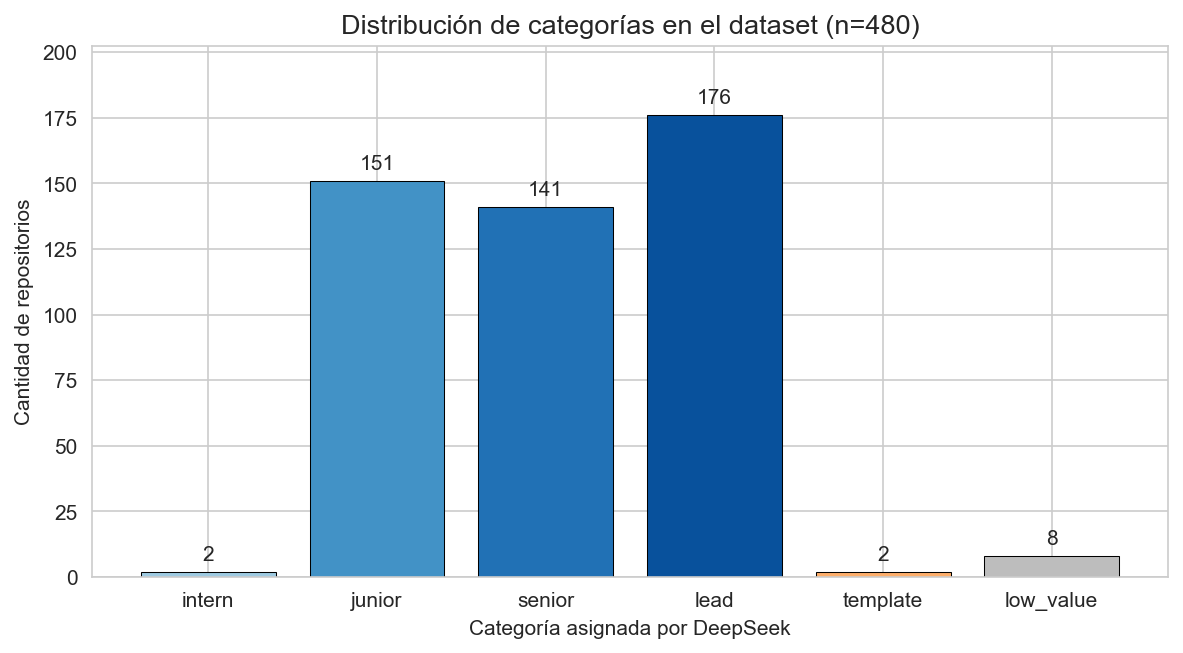
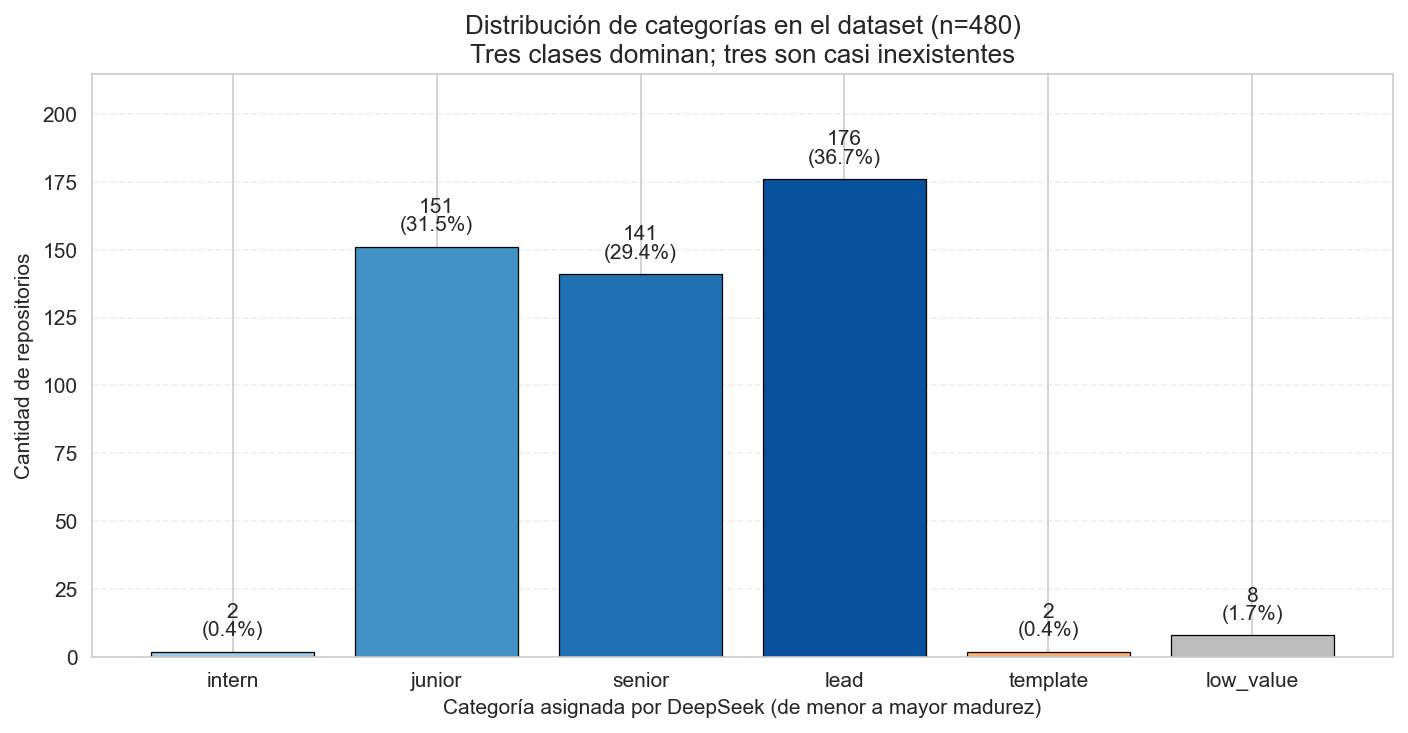
Rediseno los graficos de analisis exploratorio para que se entiendan mejor
- Distribucion de categorias: figura mas grande, anota n y porcentaje sobre cada barra, grilla horizontal y subtitulo que resume el hallazgo (3 clases dominan, 3 son inexistentes).
- Q1 (heatmap de senales por categoria): figura mas alta (13x6.2) para que las filas template y low_value dejen de superponerse con las anteriores; anotacion con formato compacto (1k separa miles, decimales adaptativos), yticks horizontales con fuente mas grande, margenes explicitos y titulo que explica que el color es z-score por columna y el numero es el valor real.
- Q2 (template/low_value vs real): cambio el viejo grid de boxplots por un bar chart horizontal agrupado que muestra el % de repos en cada cubeta que cumple con cada practica de ingenieria (multi-contribuidor, PRs merged, CI/CD, README detallado, licencia, releases, topics, descripcion). Practicas ordenadas por brecha entre cubetas para que las que mejor discriminan queden arriba. Anota el porcentaje sobre cada barra y agrega los tamanos muestrales en la leyenda.

diff --git a/src/visualization.py b/src/visualization.py
@@ -59,23 +59,36 @@ def plot_label_distribution(
     """Conteo de repos por categoría — muestra el desbalance de clases."""
     labeled = load_labeled() if labeled is None else labeled
     counts = labeled["label"].value_counts().reindex(LABEL_ORDER, fill_value=0)
+    total = int(counts.sum())
 
-    fig, ax = plt.subplots(figsize=(8, 4.5))
+    fig, ax = plt.subplots(figsize=(9.5, 5))
     bars = ax.bar(
         counts.index,
         counts.values,
         color=[LABEL_COLORS[l] for l in counts.index],
         edgecolor="black",
-        linewidth=0.5,
+        linewidth=0.6,
     )
+    max_v = max(counts.values)
     for bar, v in zip(bars, counts.values):
-        ax.text(bar.get_x() + bar.get_width() / 2, v + 3, str(int(v)),
-                ha="center", va="bottom", fontsize=10)
+        pct = v / total * 100
+        ax.text(
+            bar.get_x() + bar.get_width() / 2,
+            v + max_v * 0.025,
+            f"{int(v)}\n({pct:.1f}%)",
+            ha="center", va="bottom", fontsize=10, linespacing=0.95,
+        )
 
-    ax.set_title("Distribución de categorías en el dataset (n=480)", fontsize=13)
+    ax.set_title(
+        f"Distribución de categorías en el dataset (n={total})\n"
+        "Tres clases dominan; tres son casi inexistentes",
+        fontsize=12.5,
+    )
     ax.set_ylabel("Cantidad de repositorios")
-    ax.set_xlabel("Categoría asignada por DeepSeek")
-    ax.set_ylim(0, max(counts.values) * 1.15)
+    ax.set_xlabel("Categoría asignada por DeepSeek (de menor a mayor madurez)")
+    ax.set_ylim(0, max_v * 1.22)
+    ax.set_axisbelow(True)
+    ax.grid(axis="y", alpha=0.3, linestyle="--")
     fig.tight_layout()
     _save(fig, save_as)
     return fig
@@ -104,20 +117,43 @@ def plot_signals_by_label(
 
     norm = (agg - agg.mean()) / agg.std(ddof=0).replace(0, 1)
 
-    fig, ax = plt.subplots(figsize=(10, 4.5))
+    # Formato compacto para la anotación: 1 decimal para valores < 100, entero
+    # con coma para mayores. Evita que cifras largas (p.ej. stars promedio)
+    # invadan celdas vecinas y compriman las filas template / low_value.
+    def _fmt(x: float) -> str:
+        if pd.isna(x):
+            return ""
+        if abs(x) >= 1000:
+            return f"{x:,.0f}"
+        if abs(x) >= 100:
+            return f"{x:.0f}"
+        if abs(x) >= 10:
+            return f"{x:.1f}"
+        return f"{x:.2f}"
+
+    annot = agg.map(_fmt)
+
+    # Figura más alta para que las 6 filas (incluidas template y low_value)
+    # tengan espacio vertical suficiente y los ticks no se traslapen.
+    fig, ax = plt.subplots(figsize=(13, 6.2))
     sns.heatmap(
-        norm, annot=agg.round(1), fmt="", cmap="RdBu_r", center=0,
-        cbar_kws={"label": "z-score por columna"},
-        linewidths=0.5, linecolor="white", ax=ax,
+        norm, annot=annot, fmt="", cmap="RdBu_r", center=0,
+        cbar_kws={"label": "z-score por columna (rojo = sobre el promedio)"},
+        linewidths=0.6, linecolor="white", ax=ax,
+        annot_kws={"size": 9},
     )
     ax.set_title(
-        "Señales promedio por categoría (anotación = valor real; color = z-score)",
-        fontsize=12,
+        "Q1 — Media de cada señal por categoría\n"
+        "Color = z-score por columna (rojo = arriba del promedio del dataset). "
+        "Número dentro de cada celda = valor real (no normalizado).",
+        fontsize=12, pad=12,
     )
-    ax.set_xlabel("Señal de GitHub")
-    ax.set_ylabel("Categoría")
-    plt.setp(ax.get_xticklabels(), rotation=35, ha="right")
-    fig.tight_layout()
+    ax.set_xlabel("Señal de GitHub", fontsize=11)
+    ax.set_ylabel("Categoría", fontsize=11)
+    plt.setp(ax.get_xticklabels(), rotation=35, ha="right", fontsize=10)
+    plt.setp(ax.get_yticklabels(), rotation=0, fontsize=11)
+    # Margen extra abajo/izquierda para que ningún tick quede recortado
+    fig.subplots_adjust(left=0.12, bottom=0.20, top=0.88, right=0.98)
     _save(fig, save_as)
     return fig
 
@@ -131,40 +167,81 @@ def plot_low_value_vs_real(
     save_as: str | None = None,
 ) -> plt.Figure:
     """
-    Compara las señales de complejidad real (contributors, merged_prs, readme,
-    CI/CD) entre los repos catalogados como `template`/`low_value` y el resto.
+    Q2 — ¿Cómo distinguir un repo template/low_value de uno con ingeniería real?
+
+    Para responderlo, mostramos qué porcentaje de repos en cada cubeta cumple
+    con cada práctica de ingeniería (binaria). La separación se ve "a ojo": las
+    prácticas que tienen mucha mayor adopción en el bucket de ingeniería real
+    son las que mejor discriminan.
     """
     labeled = load_labeled() if labeled is None else labeled
     df = labeled.copy()
-    df["bucket"] = np.where(
-        df["label"].isin(["template", "low_value"]),
-        "template / low_value",
-        "intern / junior / senior / lead",
-    )
-    features = [
-        ("contributors", "Contribuidores"),
-        ("merged_prs", "PRs merged"),
-        ("readme_length", "README (chars)"),
-        ("has_cicd", "Tiene CI/CD (0/1)"),
-    ]
+    is_template = df["label"].isin(["template", "low_value"])
+    n_tpl = int(is_template.sum())
+    n_eng = int((~is_template).sum())
 
-    fig, axes = plt.subplots(1, 4, figsize=(15, 4))
-    palette = {"template / low_value": "#bdbdbd",
-               "intern / junior / senior / lead": "#2171b5"}
-    for ax, (col, title) in zip(axes, features):
-        sns.boxplot(data=df, x="bucket", y=col, hue="bucket",
-                    palette=palette, legend=False, ax=ax)
-        ax.set_title(title, fontsize=11)
-        ax.set_xlabel("")
-        ax.set_ylabel("")
-        if col in {"merged_prs", "readme_length"}:
-            ax.set_yscale("symlog")
-        plt.setp(ax.get_xticklabels(), rotation=15, ha="right", fontsize=9)
+    label_eng = f"intern / junior / senior / lead  (n={n_eng})"
+    label_tpl = f"template / low_value  (n={n_tpl})"
+    df["bucket"] = np.where(is_template, label_tpl, label_eng)
 
-    fig.suptitle(
-        "¿Qué distingue a un repo template / low_value de uno con ingeniería real?",
-        fontsize=13, y=1.02,
+    # Cada práctica es una condición binaria sobre las señales del repo
+    practices = {
+        "Multi-contribuidor (≥ 2)": df["contributors"] >= 2,
+        "Tiene PRs merged (> 0)": df["merged_prs"] > 0,
+        "CI/CD configurado": df["has_cicd"] == 1,
+        "README detallado (> 500 chars)": df["readme_length"] > 500,
+        "Licencia open source": df["has_license"] == 1,
+        "Tiene releases (> 0)": df["releases"] > 0,
+        "Topics etiquetados (> 0)": df["topics_count"] > 0,
+        "Tiene descripción": df["has_description"] == 1,
+    }
+
+    rows = []
+    for name, mask in practices.items():
+        for bucket_name in [label_eng, label_tpl]:
+            in_bucket = df["bucket"] == bucket_name
+            pct = (mask & in_bucket).sum() / max(in_bucket.sum(), 1) * 100
+            rows.append({"practice": name, "bucket": bucket_name, "pct": pct})
+    out = pd.DataFrame(rows)
+
+    # Ordenamos las prácticas por brecha (engineering − template) descendente:
+    # arriba quedan las que más discriminan
+    pivot = out.pivot(index="practice", columns="bucket", values="pct")
+    pivot["gap"] = pivot[label_eng] - pivot[label_tpl]
+    order = pivot.sort_values("gap", ascending=True).index.tolist()  # ascending → top mayor brecha
+
+    eng_vals = pivot.loc[order, label_eng].values
+    tpl_vals = pivot.loc[order, label_tpl].values
+
+    y = np.arange(len(order))
+    height = 0.38
+
+    fig, ax = plt.subplots(figsize=(11.5, 6))
+    b1 = ax.barh(y + height / 2, eng_vals, height,
+                 color="#2171b5", edgecolor="black", linewidth=0.5,
+                 label=label_eng)
+    b2 = ax.barh(y - height / 2, tpl_vals, height,
+                 color="#bdbdbd", edgecolor="black", linewidth=0.5,
+                 label=label_tpl)
+    for bar, v in zip(b1, eng_vals):
+        ax.text(v + 1.2, bar.get_y() + bar.get_height() / 2,
+                f"{v:.0f}%", va="center", fontsize=9, color="#08306b")
+    for bar, v in zip(b2, tpl_vals):
+        ax.text(v + 1.2, bar.get_y() + bar.get_height() / 2,
+                f"{v:.0f}%", va="center", fontsize=9, color="#525252")
+
+    ax.set_yticks(y)
+    ax.set_yticklabels(order, fontsize=10)
+    ax.set_xlim(0, 110)
+    ax.set_xlabel("% de repos en la cubeta que cumplen con la práctica", fontsize=11)
+    ax.set_title(
+        "Q2 — Prácticas de ingeniería: ¿qué tan presentes están en cada cubeta?\n"
+        "Las prácticas están ordenadas de menor a mayor brecha (las de arriba son las que mejor discriminan).",
+        fontsize=12, pad=10,
     )
+    ax.legend(loc="lower right", fontsize=10, framealpha=0.95)
+    ax.set_axisbelow(True)
+    ax.grid(axis="x", alpha=0.3, linestyle="--")
     fig.tight_layout()
     _save(fig, save_as)
     return fig